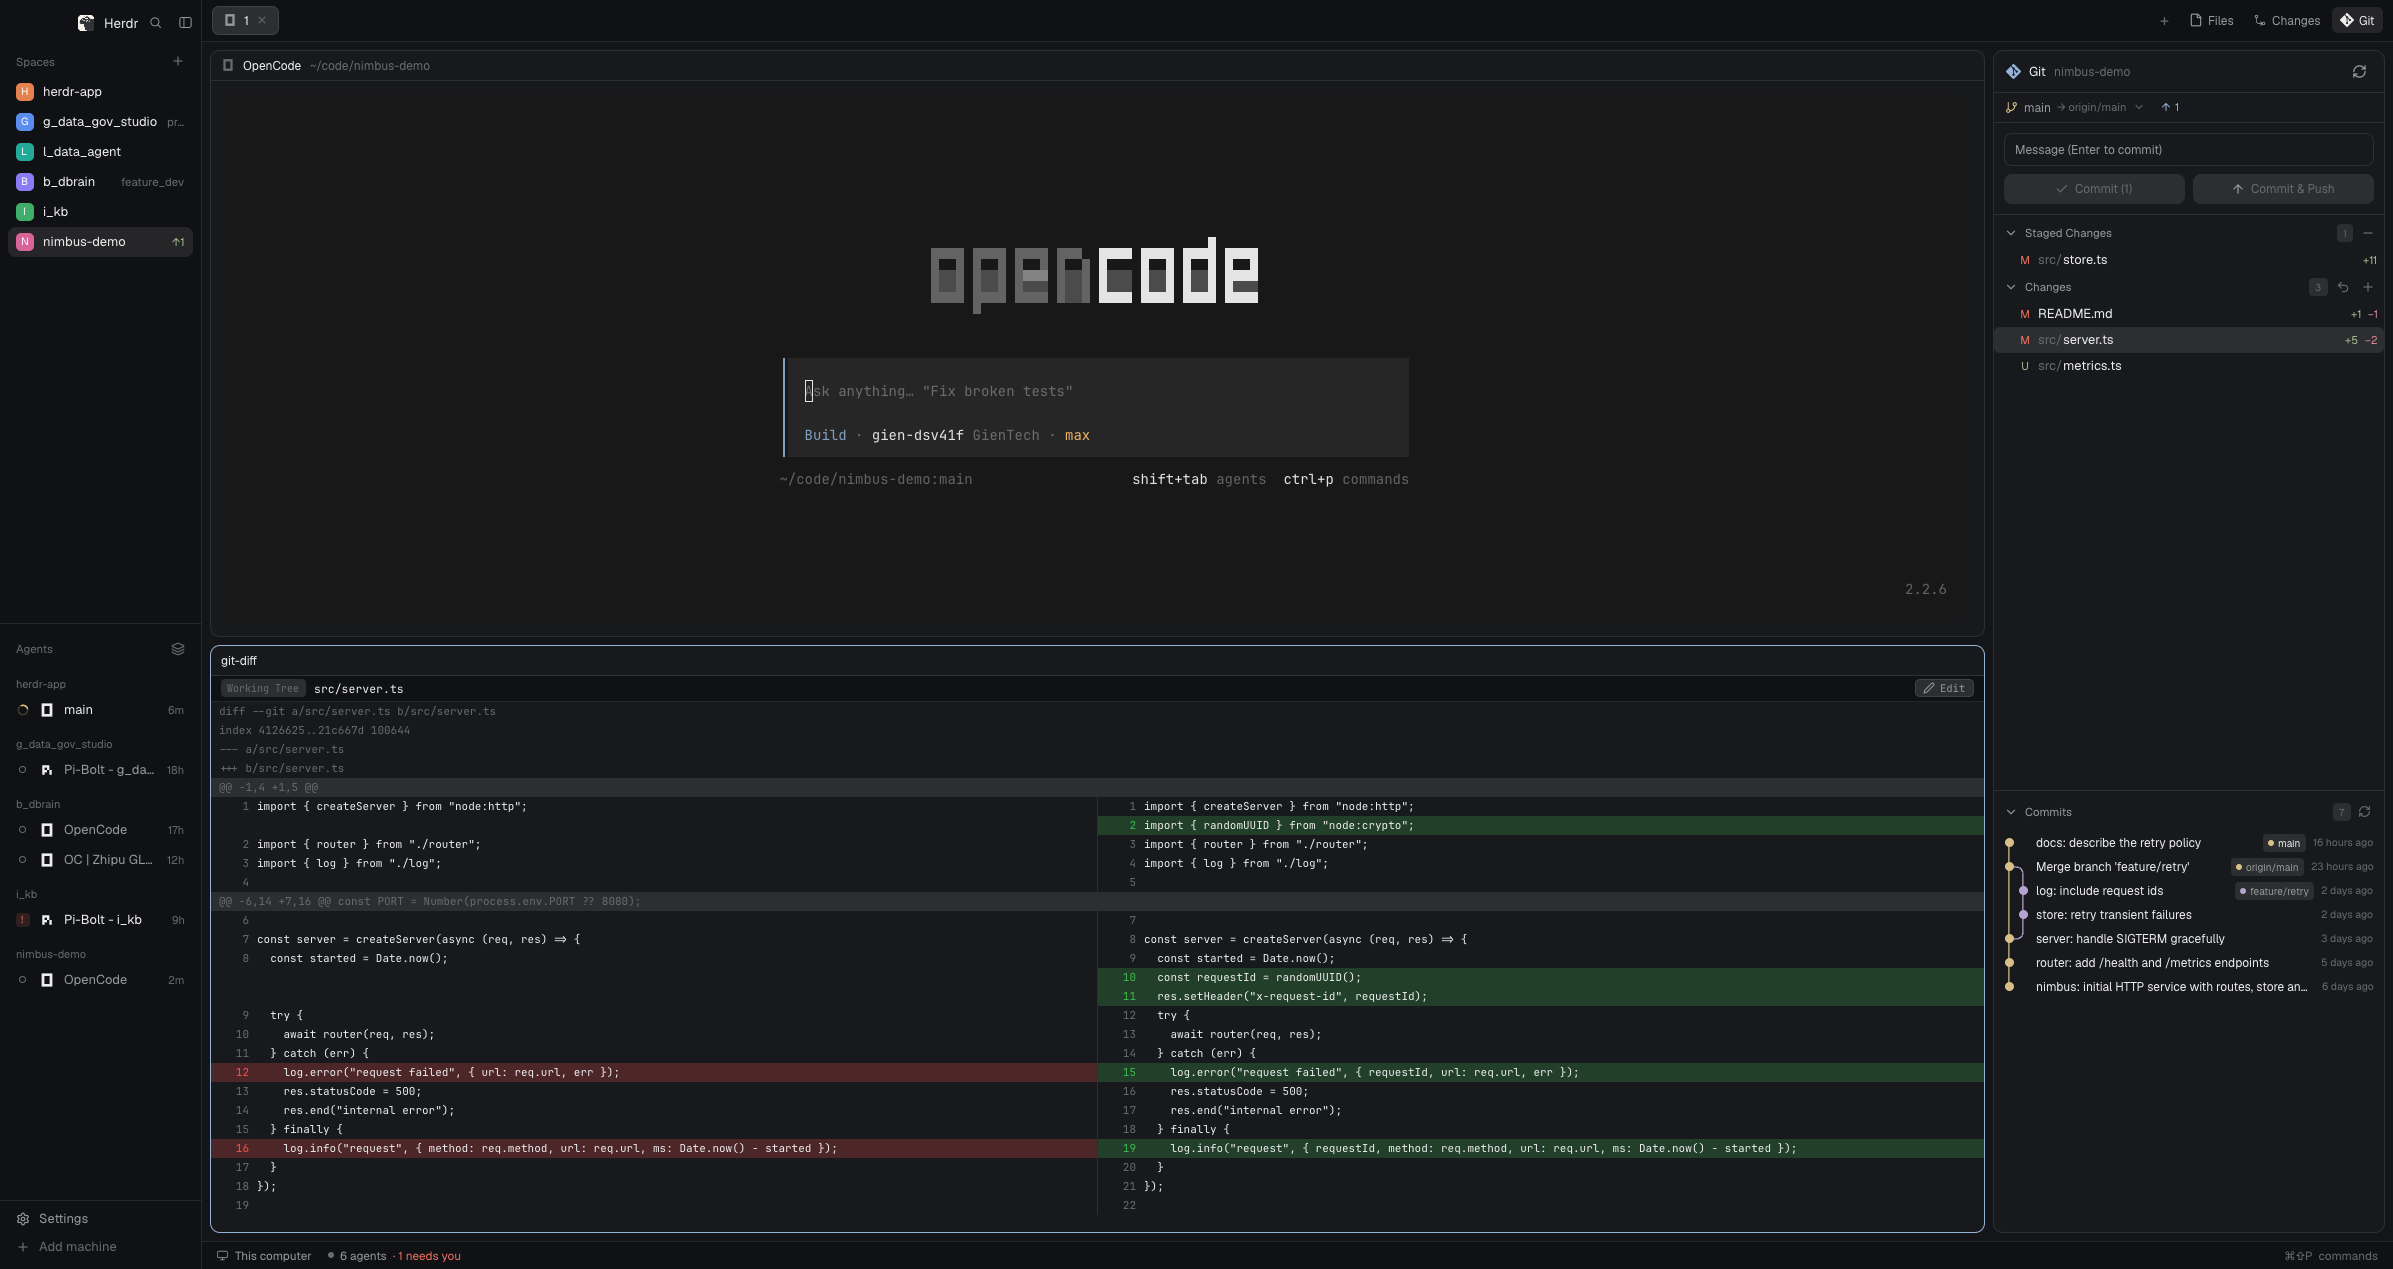
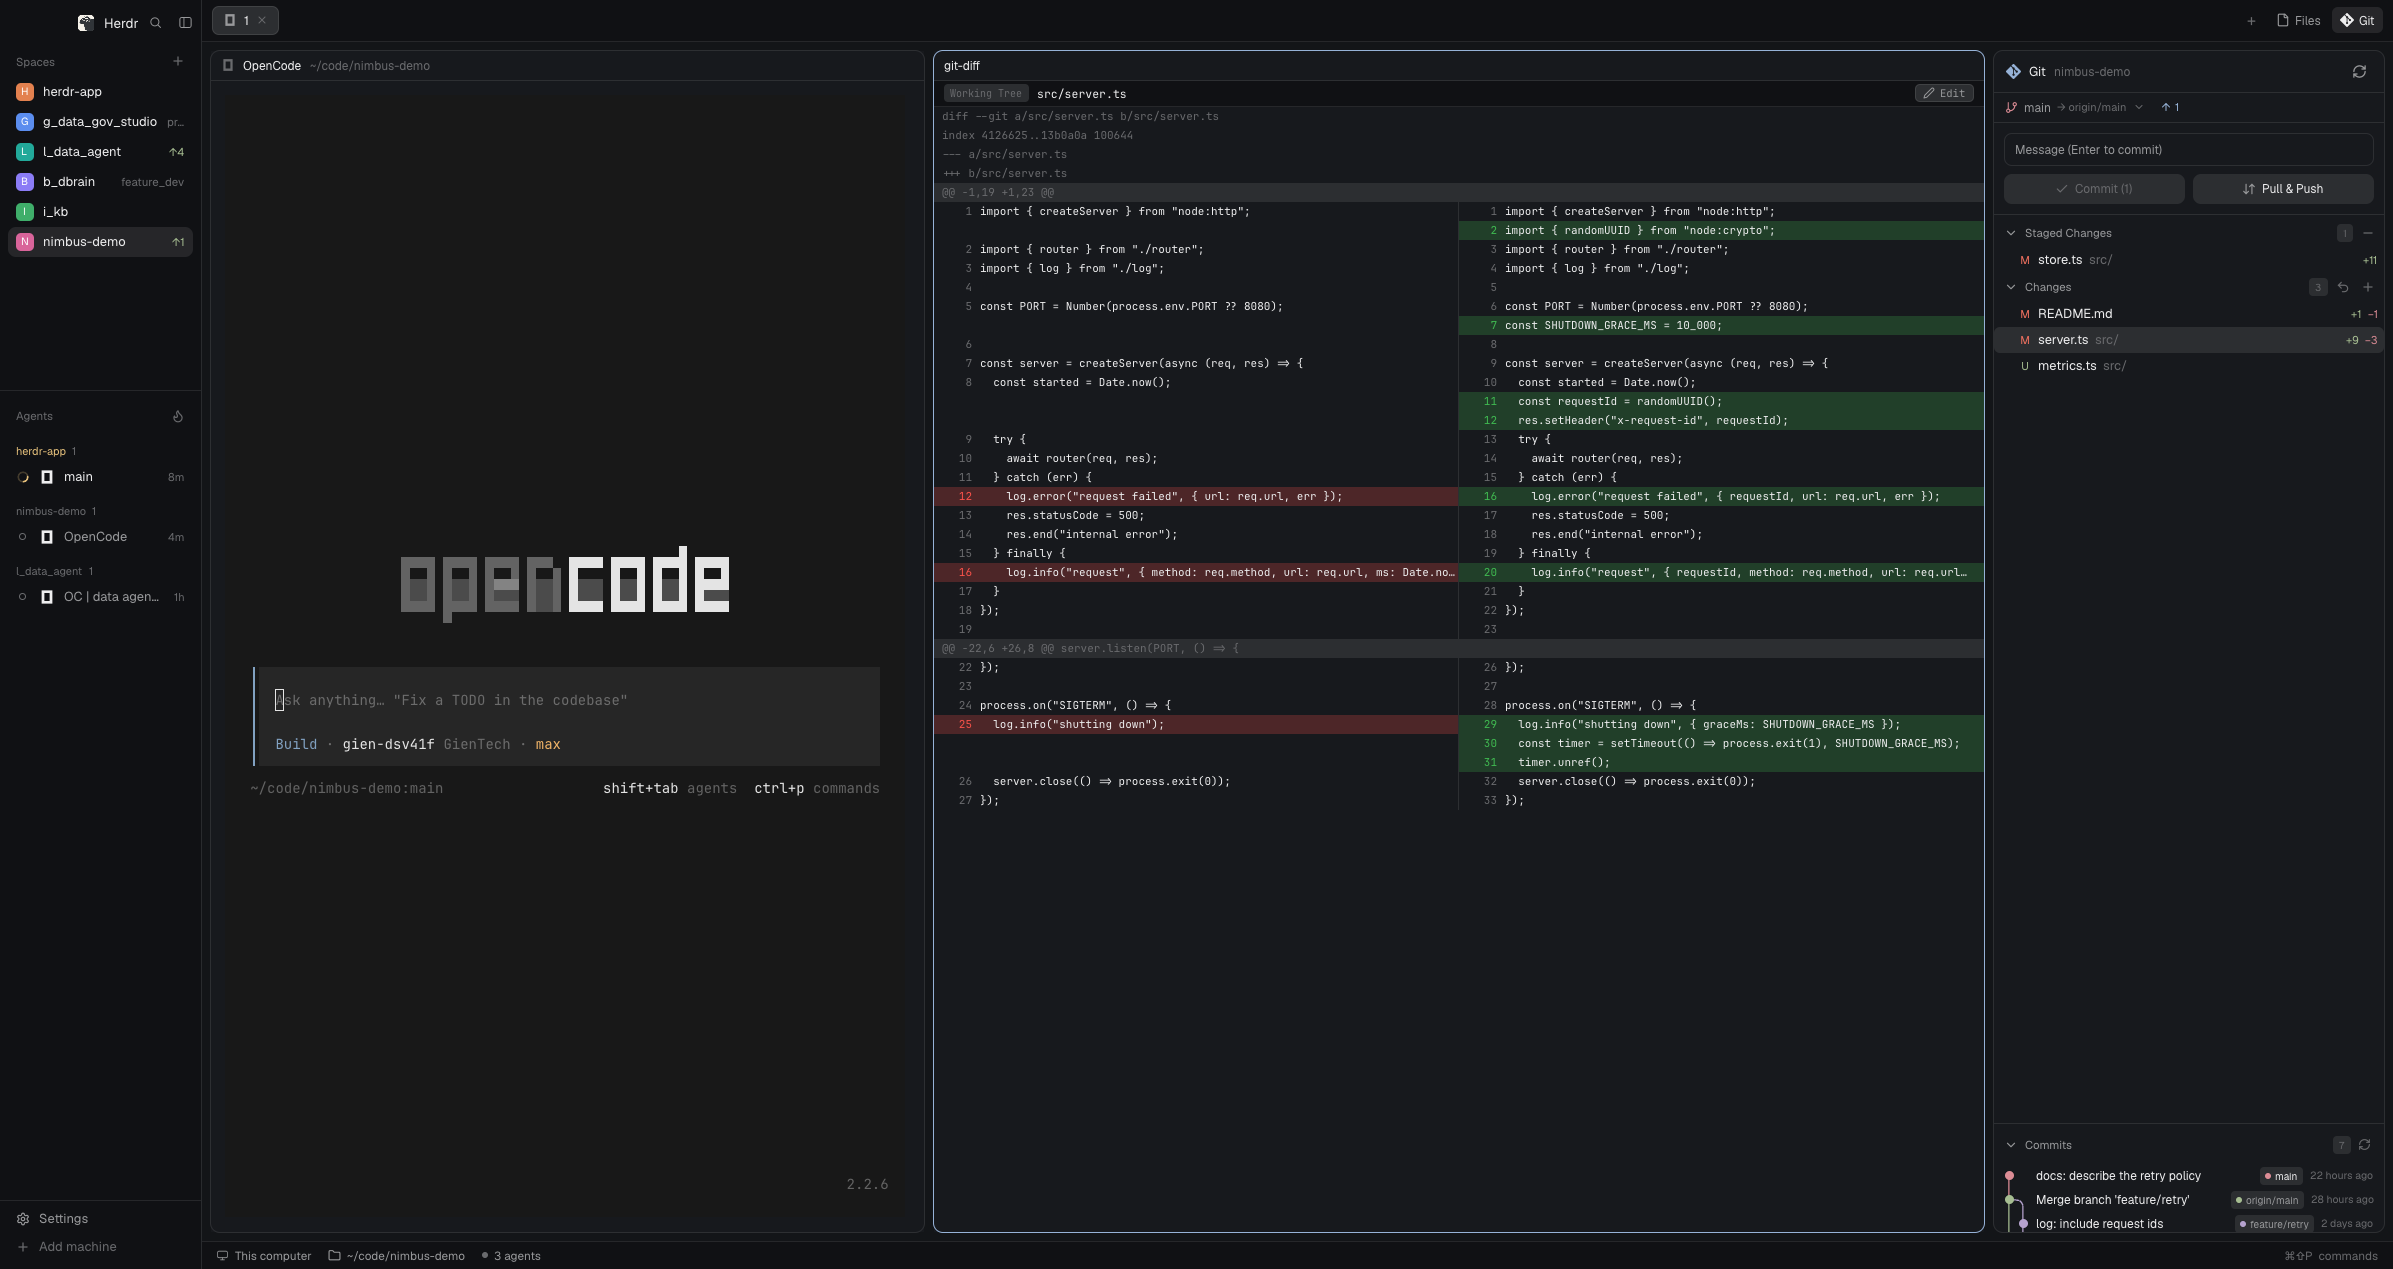
herdr-git, tabs-git: drop the shipped Changes panel, refresh the preview

diff --git a/mods/tabs-git/main.js b/mods/tabs-git/main.js
@@ -77,8 +77,10 @@ export default class Tabs extends View {
       ? Math.max(10, (root.traffic_lights[0] + 64) / settings().zoom - (sidebar?.hidden ? 0 : sidebar?.size?.px ?? 0))
       : 10;
     const panel = find(root, "panel"), body = find(root, "panel-body");
-    // The clone always offers Git too, whatever shared("workspace.panels") holds.
-    const enabled = [...new Set([...(shared("workspace.panels") ?? ["files", "changes"]), "git"])];
+    // Only what this layout's stack actually holds is offered; the clone
+    // always offers Git too.
+    const held = new Set((body?.children ?? []).map(c => c.id));
+    const enabled = [...new Set([...(shared("workspace.panels") ?? ["files"]), "git"])].filter(id => held.has(id));
     this.syncPanel(space, panel, body, enabled);
     const panelButton = (id, label, icon) => {
       const on = panel && !panel.hidden && body?.active === id;
@@ -96,7 +98,6 @@ export default class Tabs extends View {
       .child(h_flex().id("tab-scroll").flex_1().min_w(0).h_full().items_center().gap(3).overflow_x_scrollbar().children(shown.map(item)))
       .child(button("tab-new", "+", () => openOverlay({ mod: "new-menu", kind: "popup", width: 250, height: 512 })))
       .when(enabled.includes("files"), el => el.child(panelButton("files", "Files", "mods/files/file.svg")))
-      .when(enabled.includes("changes"), el => el.child(panelButton("changes", "Changes", "mods/changes/changes.svg")))
       .when(enabled.includes("git"), el => el.child(panelButton("git", "Git", "mods/git/git.svg")))
       .when(w?.buttons, el => el.child(button("minimize", w.platform === "windows" ? svg("mods/tabs-git/win-min.svg").size(16) : "−", () => run("window.minimize")))
         .child(button("maximize", w.platform === "windows" ? svg(`mods/tabs-git/${w.maximized ? "win-restore" : "win-max"}.svg`).size(16) : "□", () => run("window.maximize")))

diff --git a/RECIPE.md b/RECIPE.md
@@ -2,9 +2,9 @@
 
 A set of custom Herdr mods plus a window layout (named `herdr-git`) that
 assembles them: a Git-centered workspace — the left sidebar keeps spaces and
-agents, the right sidebar is a stack of Files / Changes / a VS Code-shaped Git
+agents, the right sidebar is a stack of Files / a VS Code-shaped Git
 panel (commit box, staged and changed files, the branch with its upstream, a
-commit graph), the tab bar carries Files / Changes / Git buttons, the status
+commit graph), the tab bar carries Files / Git buttons, the status
 bar's branch is a button — and beyond Git: a fuller file manager (selection,
 context menu, rename/copy/paste/delete), an agents list led by each row's
 status, and the reworked tab bar and status bar. The main area shows terminal
@@ -13,8 +13,8 @@ panes, with diffs and file editing opening in the tab as panes of their own.
 ![Herdr Desktop Mods](preview.png)
 
 The preview shows a demo repository (`main`, one commit ahead of `origin/main`,
-one staged file, two changed, one untracked), the `opencode` agent in the top
-pane, and the diff pane comparing `src/server.ts` below.
+one staged file, two changed, one untracked), the `opencode` agent in the left
+pane, and the diff pane comparing `src/server.ts` beside it.
 
 Package shape: `layouts/herdr-git.json` plus the seven `mods/` folders it
 uses. It mirrors a Herdr config folder (default `~/.config/herdr-app/`): copy
@@ -59,9 +59,9 @@ Work column:
   1 px `border` when active; the program's icon and name, `Z` when zoomed,
   a spinner while its agent works, a red/green dot for blocked/done, a close
   X on the active pill); a `+` button (shipped `new-menu` popup). Right:
-  `Files` / `Changes` / `Git` buttons (`selected` when its panel shows; icons
-  `mods/files/file.svg`, `mods/changes/changes.svg`, `mods/git/git.svg`),
-  and on Windows min/max/close window buttons (`mods/tabs-git/win-*.svg`).
+  `Files` / `Git` buttons (`selected` when its panel shows; icons
+  `mods/files/file.svg`, `mods/git/git.svg`), and on Windows min/max/close
+  window buttons (`mods/tabs-git/win-*.svg`).
   On macOS the left padding grows so the traffic lights never overlap a tab.
 - Main area — the block `main`, `content: {tab: "active"}`: the active tab's
   terminals as cards. 8 px padding around the row, 8 px gap between panes,
@@ -72,9 +72,9 @@ Work column:
   on the right. Terminal text uses the mono font from settings (JetBrains
   Mono here), `terminal_padding [14, 12]`.
 - Right panel — 368 px by default (min 280, max 900; the preview: 392): one
-  stack, `panel-body`, holding three blocks — `files-menu`, `changes`
-  (shipped), `git` — one shown at a time; the layout's default child is
-  `git`. The tab bar's buttons switch it, or hide the whole column.
+  stack, `panel-body`, holding two blocks — `files-menu` and `git` — one
+  shown at a time; the layout's default child is `git`. The tab bar's
+  buttons switch it, or hide the whole column.
 - Status bar, 28 px (mod `status-branch`, a fork of the shipped
   `workspace-status`), background `chrome`, top `border`: "This computer"
   (a server icon on a remote space), the branch as a button, "N agents ·
@@ -202,8 +202,8 @@ What moves, what is remembered:
 
 Watching the folder:
 
-- The Git panel, Files panel and the shipped Changes panel watch the focused
-  folder with `watchFolder` and a 10 s timer fallback; every git read uses
+- The Git panel and the Files panel watch the focused folder with
+  `watchFolder` and a 10 s timer fallback; every git read uses
   `--no-optional-locks -c core.fsmonitor=false -c diff.autoRefreshIndex=false`
   so the watch never sees our own reads. The diff pane reads only when its
   target changes (or a save reloads it) — it is not a watcher.
@@ -245,7 +245,6 @@ ids:
           "children": [
             { "id": "panel-body", "type": "stack", "active": "git", "children": [
               { "id": "files", "content": {"mod": "files-menu"} },
-              { "id": "changes", "content": {"mod": "changes"} },
               { "id": "git", "content": {"mod": "git"} } ] } ] } ] },
       { "id": "status", "size": {"px": 28}, "content": {"mod": "status-branch"} } ] } ] }
 ```
@@ -261,7 +260,7 @@ puts them somewhere):
 | `files-menu` | fork of `files` | multi-select, context menu, rename/copy/paste/delete, git marks |
 | `status-branch` | fork of `workspace-status` | the branch button in the status bar |
 | `agents-left` | fork of `agents` | the status chip leading each agent row |
-| `tabs-git` | fork of `tabs` | Files / Changes / Git panel buttons |
+| `tabs-git` | fork of `tabs` | Files / Git panel buttons |
 
 The forks are clones (`mod.clone`), so each carries
 `cloned_from: {name, version: "0.1.13"}` in its `mod.json`; build them by
@@ -297,16 +296,16 @@ shipped folder does not survive) and then:
   hint is derived from `keys()` (falls back to the bare word "commands");
   the folder is the active space's first terminal's live `cwd` (or the space
   folder), the same place the bar's branch comes from.
-- `tabs-git` — `tabs` plus the three panel buttons and the per-space panel
-  memory: `localStorage` "panels" maps space id → `"files" | "changes" |
-  "git" | null`; on a space switch it applies the stored choice with
+- `tabs-git` — `tabs` plus the two panel buttons and the per-space panel
+  memory: `localStorage` "panels" maps space id → `"files" | "git" | null`;
+  on a space switch it applies the stored choice with
   `layout.select {stack: "panel-body", child}` + `layout.show|hide {id:
   "panel"}` (a space with no memory starts hidden); manual changes are
   recorded back. The enabled set is `shared("workspace.panels")` plus
-  `"git"` — the Git button is always offered. It also pads the tab strip for
-  the macOS traffic lights using the layout's `traffic_lights` and the
-  sidebar width (divided by zoom), and draws Windows window buttons when
-  `window().buttons`.
+  `"git"`, kept to what the stack holds — the Git button is always offered.
+  It also pads the tab strip for the macOS traffic lights using the
+  layout's `traffic_lights` and the sidebar width (divided by zoom), and
+  draws Windows window buttons when `window().buttons`.
 
 The new mods:
 
@@ -352,7 +351,7 @@ Shared state contract (set by `setShared`, read with `shared`):
 - `files.refresh` = a growing number; the panels re-read the folder when it
   changes.
 - `workspace.panels` (read-only here) = the set of panels the welcome
-  enabled; `tabs-git` offers those plus `git`.
+  enabled; `tabs-git` offers those its stack holds, plus `git`.
 
 Commands the mods run: `pane.split` / `pane.close` (the two "open a pane"
 flows), `pane.focus`, `terminal.peek` / `terminal.pin`, `tab.select` /
@@ -373,7 +372,7 @@ plus, refresh, tag, undo), `mods/git-diff/*.svg` (chevron-left, disk, pencil),
 file,folder}.svg`, `mods/tabs-git/win-{close,max,min,restore}.svg`. The forks
 also reference shipped assets on purpose: `mods/workspace-chrome/
 {spinner,branch,check,monitor,server}.svg`, `mods/pane/close.svg`,
-`mods/files/file.svg`, `mods/changes/changes.svg`. The commit graph is drawn
+`mods/files/file.svg`. The commit graph is drawn
 with `PathBuilder`, no images; the diff's red/green are literal hexes (above)
 because theme ANSI colors wash out at row alpha. No fonts are bundled — the
 mods use `settings().font_family` (JetBrains Mono by default); the layout
@@ -388,7 +387,7 @@ sets no fonts either.
   live in `layouts/.state/` and override the JSON on this machine; a fresh
   install starts from the JSON defaults (268 / 368, stack `git`).
 - The forks depend on shipped assets and shipped mods (`menu`, `new-menu`,
-  `pane`, `changes`, `spaces`, `workspace-chrome`). A build that ships its
+  `pane`, `spaces`, `workspace-chrome`). A build that ships its
   own copies must fix the asset paths and the overlay mod names.
 - The Git panel and the Files panel anchor their splits on the focused
   terminal's pane — or the tab's first terminal when a mod pane holds the
@@ -425,7 +424,7 @@ sets no fonts either.
 1. `herdr-app check ~/.config/herdr-app/mods/<each of the seven>` passes
    (loads, renders once, exits 0).
 2. `layout.switch {name: "herdr-git"}` shows the window: brand bar, spaces
-   and agents, tab bar with the three panel buttons, main panes with 30 px
+   and agents, tab bar with the two panel buttons, main panes with 30 px
    headers, right stack (default: Git), status bar with the branch.
 3. In a repository: the Git panel lists staged/changed files with letters
    and `+n −m`; clicking a file opens the diff pane side by side, the row

diff --git a/README.md b/README.md
@@ -30,9 +30,9 @@
 | 区域 | 内容 |
 |---|---|
 | 左侧栏 | 空间列表、Agents 列表（`agents-left`）、底部工具条 |
-| 顶部 | 标签栏（`tabs-git`）：标签 + Files / Changes / Git 面板开关 |
+| 顶部 | 标签栏（`tabs-git`）：标签 + Files / Git 面板开关 |
 | 主区 | 终端 / diff / 编辑器面板平铺，面板带常显的标题栏 |
-| 右侧栏 | Files / Changes / Git 面板轮换（`files-menu`、`changes`、`git`） |
+| 右侧栏 | Files / Git 面板轮换（`files-menu`、`git`） |
 | 底部 | 状态栏（`status-branch`）：分支可直接点开切换 |
 
 ### 7 个 mod
@@ -45,7 +45,7 @@
 | `files-menu` | 基于自带 `files` 改编 | 文件浏览器：多选、右键菜单、重命名/复制/粘贴/删除、Git 状态标记 |
 | `status-branch` | 基于自带 `workspace-status` 改编 | 状态栏上的分支切换按钮 |
 | `agents-left` | 基于自带 `agents` 改编 | 状态图标前置的 Agents 列表 |
-| `tabs-git` | 基于自带 `tabs` 改编 | 标签栏上的 Files / Changes / Git 面板开关 |
+| `tabs-git` | 基于自带 `tabs` 改编 | 标签栏上的 Files / Git 面板开关 |
 
 #### `git` — 源代码管理面板
 
@@ -92,7 +92,7 @@
 
 #### `tabs-git` — 标签栏
 
-- 自带 `tabs` 加上 Files / Changes / Git 三个面板开关：点击切换右侧面板栈，点当前面板则收起；Git 在这里始终可用，并按空间记住上次的面板选择。
+- 自带 `tabs` 加上 Files / Git 两个面板开关：点击切换右侧面板栈，点当前面板则收起；Git 在这里始终可用，并按空间记住上次的面板选择。
 
 ### 它们如何协作
 
@@ -160,9 +160,9 @@ The window looks like this:
 | Area | Content |
 |---|---|
 | Left sidebar | Spaces list, agents list (`agents-left`), footer toolbar |
-| Top | Tab bar (`tabs-git`): tabs + Files / Changes / Git panel buttons |
+| Top | Tab bar (`tabs-git`): tabs + Files / Git panel buttons |
 | Main area | Terminal / diff / editor panes; every pane keeps a header |
-| Right panel | Files / Changes / Git stack (`files-menu`, `changes`, `git`) |
+| Right panel | Files / Git stack (`files-menu`, `git`) |
 | Bottom | Status bar (`status-branch`): click the branch to switch |
 
 ### The seven mods
@@ -175,7 +175,7 @@ The window looks like this:
 | `files-menu` | fork of `files` | File browser: selection, context menu, rename/copy/paste/delete, Git marks |
 | `status-branch` | fork of `workspace-status` | Branch switcher in the status bar |
 | `agents-left` | fork of `agents` | Agents list with the status chip leading each row |
-| `tabs-git` | fork of `tabs` | Files / Changes / Git panel buttons in the tab bar |
+| `tabs-git` | fork of `tabs` | Files / Git panel buttons in the tab bar |
 
 #### `git` — the Source Control panel
 
@@ -222,7 +222,7 @@ The window looks like this:
 
 #### `tabs-git` — the tab bar
 
-- The shipped tab bar plus Files / Changes / Git panel buttons: clicking one switches the right panel stack, clicking the shown one hides it; Git is always offered here, and the choice is remembered per space.
+- The shipped tab bar plus Files / Git panel buttons: clicking one switches the right panel stack, clicking the shown one hides it; Git is always offered here, and the choice is remembered per space.
 
 ### How they work together
 
